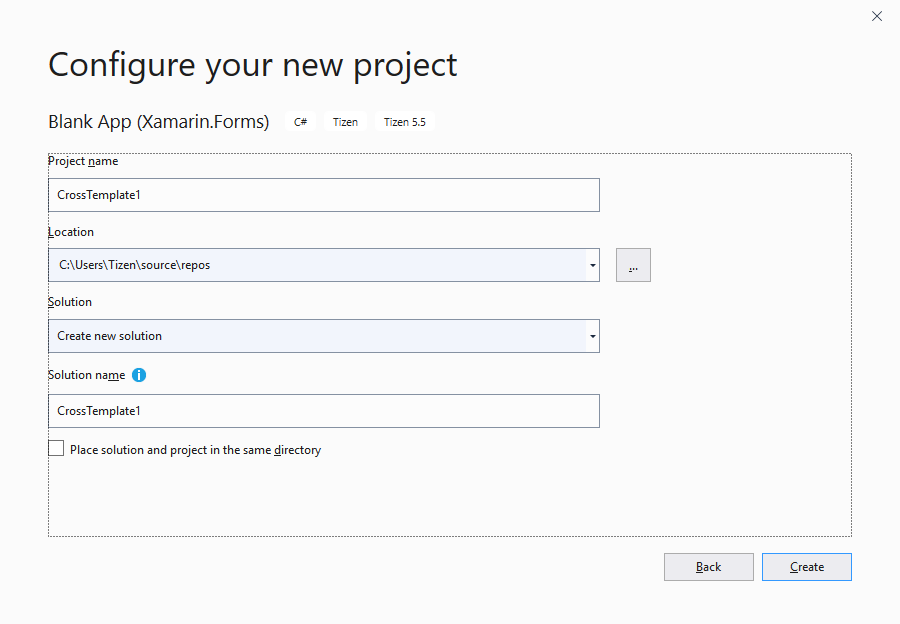
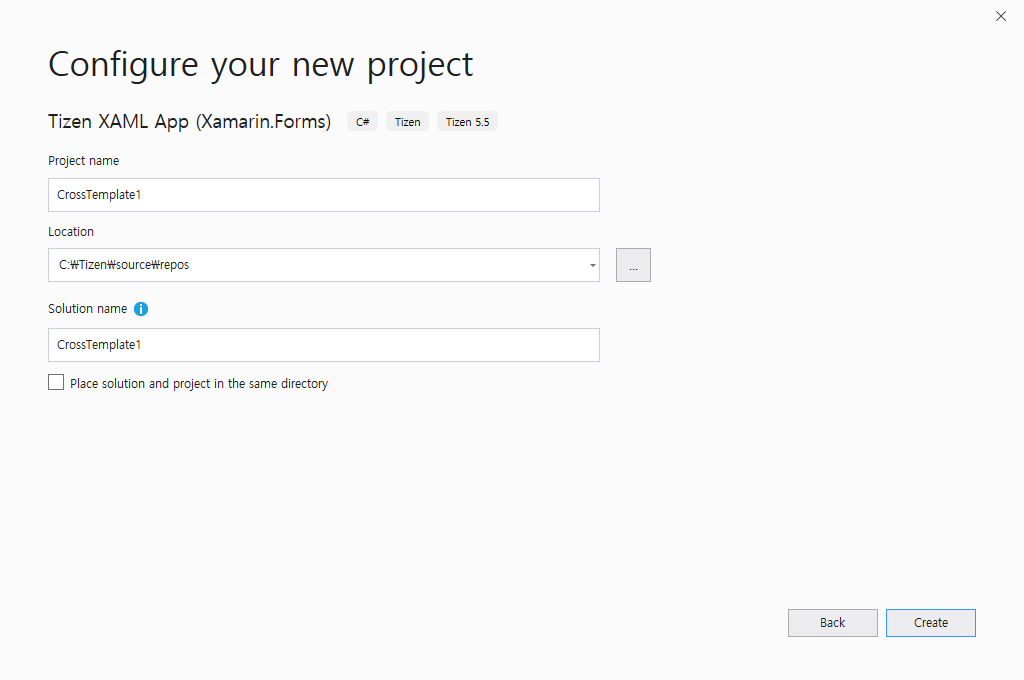
Remove unused texts and Update the Create a Project section

diff --git a/docs/application/dotnet/get-started/iot/first-app.md b/docs/application/dotnet/get-started/iot/first-app.md
@@ -15,7 +15,7 @@ The Tizen .NET framework allows you to easily and efficiently create application
 
 4. [Deploy and Run Your Application](#deploy-and-run-your-application).
 
-    This step shows how you can deploy and run the application on the emulator or a real target device.
+    This step shows how you can deploy and run the application on the reference board.
 
 5. [Enhance Your Application](#enhance-your-application).
 
@@ -49,23 +49,22 @@ To create a new Tizen .NET project:
 
     The **Tizen Project Wizard** pop-up window appears.
 
-4. Select the profile, **Mobile** and click **OK**.
+4. Select the profile, **Common** and click **OK**.
 
-    ![Tizen Project Wizard](media/cs_first_creating_project_wizard_mobile.png)
+    ![Tizen Project Wizard](media/cs_first_creating_project_wizard_common.png)
 
     If you select the **Common** profile, you cannot select **Mobile**, **TV**, or **Wearable**.
 
 The following figure illustrates a solution with four projects created and displayed in the **Solution Explorer** view:
 
-![Project with mobile, TV, and wearable profiles](media/vs_solution_explorer_mobile.png)
+![Project Structure](media/vs_solution_explorer.png)
 
 -   The **\<projectname\>** project contains the Xamarin.Forms code shared across platforms.
--   If you select the common profile in the Tizen Project Wizard, a common project titled **\<projectname\>.Tizen** is added. It contains code to instantiate your common application within the Tizen framework.
--   If you select the mobile profile in the Tizen Project Wizard, a mobile project titled **\<projectname\>.Tizen.Mobile** is added. It contains code to instantiate your mobile application within the Tizen framework.
+-   A common project titled **\<projectname\>.Tizen** is added. It contains code to instantiate your common application within the Tizen framework.
 
 If you are already familiar with Xamarin.Forms, this project has the same structure as a Xamarin.Forms portable application. The **\<projectname\>** project is the portable class library and the others are the platform-specific projects; however, in Tizen .NET, only the Tizen platform-specific project is generated.
 
-The `.cs` file in the portable project already contains simple Xamarin.Forms code that makes a basic UI.
+The `.xaml` file in the portable project already contains simple Xamarin.Forms code that makes a basic UI.
 
 ## Build Your Application
 
@@ -78,7 +77,7 @@ There are two different ways to build the application:
 -   In the Visual Studio menu, select **Build \> Build Solution**.
 -   In the **Solution Explorer** view, right-click the solution name and select **Build**.
 
-Tizen .NET applications are always deployed as installed packages. The package files have the `.tpk` file extension, and the process of generating a package is controlled by the [manifest file](../../../vstools/tools/manifest-editor.md). The Visual Studio template generates the manifest file (`tizen-manifest.xml`) to the top level of the \<projectname\>.Tizen project (if you create projects with mobile, TV, or wearable profiles, a separate manifest file is generated for each profile).
+Tizen .NET applications are always deployed as installed packages. The package files have the `.tpk` file extension, and the process of generating a package is controlled by the [manifest file](../../../vstools/tools/manifest-editor.md). The Visual Studio template generates the manifest file (`tizen-manifest.xml`) to the top level of the \<projectname\>.Tizen project.
 
 For this example application, the default manifest is sufficient. If you want to make any changes in the application, such as changing the application icon or installing resources that are used by the application at runtime, see [Package Your Application](#package-your-application).
 
@@ -117,7 +116,7 @@ To deploy and run the application on the emulator:
     ![Application running on the mobile
     emulator](media/cs_first_building_emulator_mobile.png)
 
-Visual Studio uses the Smart Development Bridge (SDB) to communicate with the target device or emulator. If you encounter problems with detecting the device in Visual Studio, you can check the SDB manually:
+Visual Studio uses the Smart Development Bridge (SDB) to communicate with the reference board. If you encounter problems with detecting the device in Visual Studio, you can check the SDB manually:
 
 1.  In the Visual Studio menu, select **Tools \> Tizen \> Tizen Sdb Command Prompt**.
 2.  In the command prompt, enter `sdb devices`.
@@ -149,52 +148,21 @@ The Xamarin.Forms controls used to create the user interface of a Tizen .NET app
 -   `Views` are the controls displayed on the user interface, such as labels, buttons, and text entry boxes.
 -   `Cells` are specialized elements used for items in tables and lists, which help describe how the items must be rendered.
 
-The following shows the portable code portion of the Tizen Xamarin.Forms project **CrossTemplate1.cs** file, generated by the template:
+The following shows the portable code portion of the Tizen Xamarin.Forms project **MainPage.xaml** file, generated by the template:
 
-```csharp
-using System;
-using System.Collections.Generic;
-using System.Linq;
-using System.Text;
-using Xamarin.Forms;
-
-namespace CrossTemplate1
-{
-    public class App : Application
-    {
-        public App()
-        {
-            /// Root page of your application
-            MainPage = new ContentPage
-            {
-                Content = new StackLayout
-                {
-                    VerticalOptions = LayoutOptions.Center,
-                    Children =
-                    {
-                        new Label
-                        {
-                            HorizontalTextAlignment = TextAlignment.Center,
-                            Text = "Welcome to Xamarin Forms!"
-                        }
-                    }
-                }
-            };
-        }
-        protected override void OnStart()
-        {
-            /// Handle when your app starts
-        }
-        protected override void OnSleep()
-        {
-            /// Handle when your app sleeps
-        }
-        protected override void OnResume()
-        {
-            /// Handle when your app resumes
-        }
-    }
-}
+```xml
+<?xml version="1.0" encoding="utf-8" ?>
+<ContentPage xmlns="http://xamarin.com/schemas/2014/forms"
+             xmlns:x="http://schemas.microsoft.com/winfx/2009/xaml"
+             x:Class="CrossTemplate1.MainPage">
+    <ContentPage.Content>
+        <StackLayout>
+            <Label Text="Welcome to Xamarin.Forms!"
+                VerticalOptions="CenterAndExpand" 
+                HorizontalOptions="CenterAndExpand" />
+        </StackLayout>
+    </ContentPage.Content>
+</ContentPage>
 ```
 
 This application is constructed with the following Xamarin.Forms controls:
@@ -213,6 +181,7 @@ The code does not show the instantiation of the `App` class. Since application l
 
 ```csharp
 using System;
+using Xamarin.Forms;
 
 namespace CrossTemplate1
 {
@@ -221,132 +190,19 @@ namespace CrossTemplate1
         protected override void OnCreate()
         {
             base.OnCreate();
+
             LoadApplication(new App());
         }
 
         static void Main(string[] args)
         {
             var app = new Program();
-            global::Xamarin.Forms.Platform.Tizen.Forms.Init(app);
+            Forms.Init(app);
             app.Run(args);
         }
     }
 }
 ```
-
-### Add a Button and the Second Label
-
-To modify and build a new application, create a new project. The default name for the second project is **CrossTemplate2** (as shown in the namespace declaration in the following step list), but of course you can name it anything you want.
-
-The basic template uses a label which displays text in an area of the screen. The properties inherited from the base classes of `Label` give control over the display: font attributes, families, and sizes, as well as layout options. Modify the application by adding a button control. It is similar to the label, but is specifically designed to react to click events. As a result, the `Button` class defines the `Clicked` event, which tells the application what to do when the click event takes place.
-
-In order to do something visible on the screen to show that you have received the click event, define another label. Give the new label a value to be displayed in the initial state, and make the button click event handler update the text and button color once the click event triggers.
-
-To modify the application by adding a button and label:
-
-1. Since the click event triggers outside the class constructor, declare the button, the label, and a click counter at the class level:
-
-    ```csharp
-    using System;
-    using System.Collections.Generic;
-    using System.Linq;
-    using System.Text;
-    using Xamarin.Forms;
-
-    namespace CrossTemplate2
-    {
-        public class App : Application
-        {
-            Button button;
-            Label label;
-            int clicks = 0;
-    ```
-
-2. Instantiate the button, and add the `OnButtonClicked` event handler to the button's `Clicked` event:
-
-    ```csharp
-            public App()
-            {
-                button = new Button
-                {
-                    Text = "Click here!",
-                    BackgroundColor = Color.Red,
-                    HorizontalOptions = LayoutOptions.Center,
-                };
-                button.Clicked += OnButtonClicked;
-    ```
-
-3. Instantiate the label, and give the label a value to be displayed in the initial state by setting the `Text` property:
-
-    ```csharp
-                label = new Label
-                {
-                    Text = "unclicked",
-                    HorizontalOptions = LayoutOptions.Center,
-                };
-    ```
-
-4. Change the initial text of the first label to "Welcome to Tizen!", and include the new button and label as children of the `StackLayout`, so they are stacked below the first label:
-
-    ```csharp
-                /// The root page of your application
-                MainPage = new ContentPage
-                {
-                    Content = new StackLayout
-                    {
-                        VerticalOptions = LayoutOptions.Center,
-                        Children = {
-                            new Label {
-                                HorizontalTextAlignment = TextAlignment.Center,
-                                Text = "Welcome to Tizen!"
-                            },
-                            button,
-                            label,
-                        }
-                    }
-                };
-            }
-    ```
-
-5. To change the new label's properties when the button is clicked, define the `OnButtonClicked` event handler.
-
-    When an event triggers, two parameters are delivered to any handler set up to watch it. The first parameter is an object representing the control that triggered the event and the second parameter is the event data appropriate to the event type.
-
-    Increment the click counter, build a string showing how many times the button has been clicked, and set the `Text` property of the label to that string.
-
-    Just for visual effect, you can also set the button background color to something different than the initial color set when the button was instantiated.
-
-    ```csharp
-            void OnButtonClicked(object s, EventArgs e)
-            {
-                clicks += 1;
-                label.Text = String.Format("Number of clicks: {0}", clicks);
-                button.BackgroundColor = Color.Blue;
-            }
-            protected override void OnStart()
-            {
-                /// Handle when your app starts
-            }
-            protected override void OnSleep()
-            {
-                /// Handle when your app sleeps
-            }
-            protected override void OnResume()
-            {
-                /// Handle when your app resumes
-            }
-        }
-    }
-    ```
-
-The following image shows what happens when you run the modified code.
-
-![Enhanced application](media/cs_first_building_emulator_enhanced.png)
-
-At startup, the button is red and the text below the button is **unclicked**. After a couple of clicks, the click counter is displayed below the button, and the button color has changed.
-
-This topic only introduces the controls in use in the example above. For more information on Xamarin.Forms, see the [Xamarin Developer Center](https://developer.xamarin.com/guides/xamarin-forms/). There is also [a comprehensive book about Xamarin.Forms](https://developer.xamarin.com/guides/xamarin-forms/creating-mobile-apps-xamarin-forms/)
-available as a free download from Microsoft Press.
 
 ## Package Your Application
 
